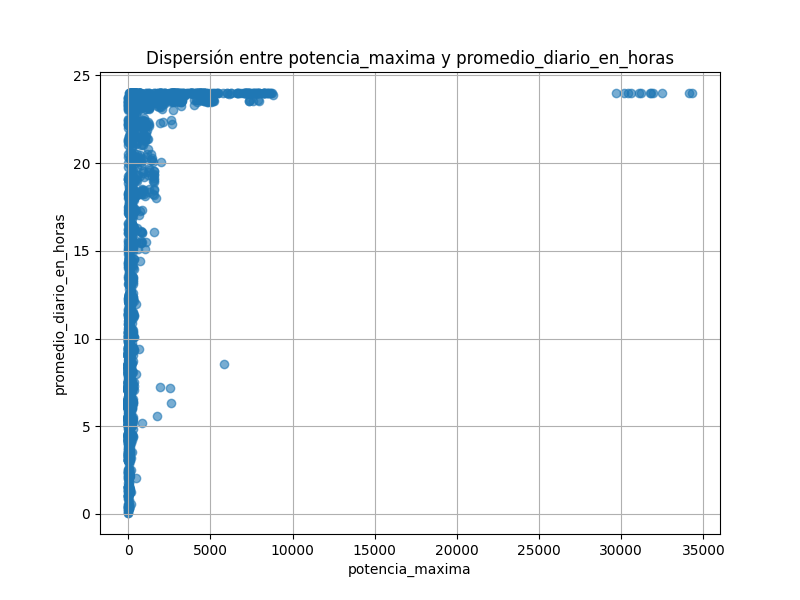
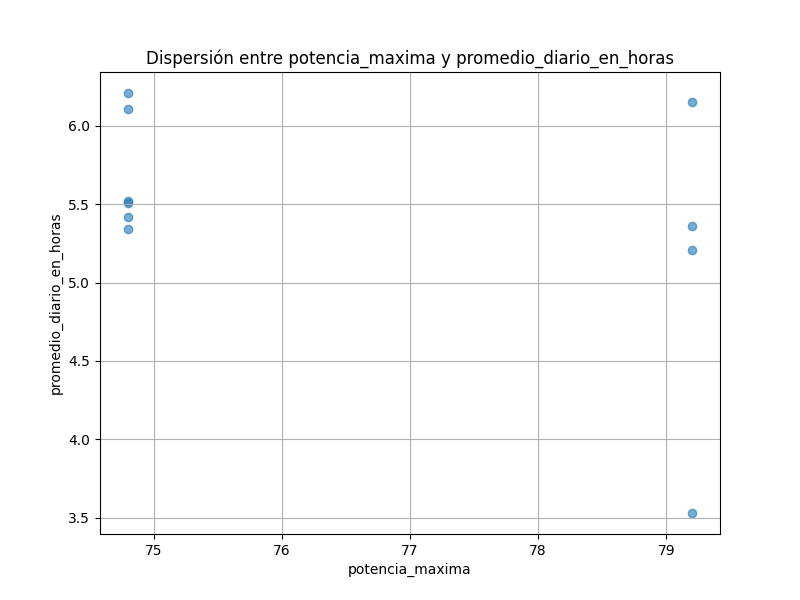
se agrego la opcion de filtrado por mid mubnnicipio o departamento

diff --git a/main.py b/main.py
@@ -1,24 +1,8 @@
-#----- Proyecto: Análisis de Datos de Zonas Horarias -----
-# Este script realiza un análisis estadístico y visualización de datos de estabilidad de servicio energético
-# en diferentes zonas horarias. Se enfoca en la columna 'PROMEDIO DIARIO EN HORAS'.
-# 1. Yaneth Berrio, 2. Santiago Quiroga, 3. Jose Luis Giraldo, 4. Sebastián Cortes, 5. Andrés Felipe Gutiérrez
-# main.py
-# main.py
-
 # main.py
 """
-Proyecto: Análisis de Datos de Zonas Horarias
-Autoría: Equipo (Yaneth Berrio, Santiago Quiroga, Jose Luis Giraldo, Sebastián Cortés, Andrés Felipe Gutiérrez)
-Descripción:
-    • Carga limpia y robusta del dataset Zonas_limpio.csv
-    • Estadísticas descriptivas clave
-    • Visualizaciones solicitadas (boxplot, histograma, pie, barras, mapa de calor, dispersión, regresión lineal)
-    • Manejo de errores: codificación, delimitador, encabezados faltantes
-"""
-# main.py
-"""
-Proyecto: Análisis de Datos de Zonas Horarias
-Versión: carga adaptable a separadores
+Proyecto: Análisis de Datos de Zonas Horarias – Filtro dinámico
+Permite filtrar por ID de municipio (M) o ID de departamento (D) y generar
+estadísticas + gráficas solo para el subconjunto elegido.
 """
 
 import pandas as pd
@@ -31,102 +15,67 @@ from graficas import (
     graficar_histograma, graficar_barras_categoria, graficar_matriz_correlacion,
     graficar_dispersion, graficar_regresion_lineal)
 
-# -----------------------------------------------------------------------------
-# 1. Carga adaptativa del CSV --------------------------------------------------
-# -----------------------------------------------------------------------------
-
 RUTA = "Zonas_limpio.csv"
 
-# intentos con diferentes configuraciones
-def cargar_csv(path: str) -> pd.DataFrame:
-    # 1) intento estándar ';' + latin1 + engine c
-    try:
-        df = pd.read_csv(path, sep=';', encoding='latin1')
-        if df.shape[1] > 1:
-            return df
-    except Exception:
-        pass
-    # 2) mismo pero engine python (tolerante)
-    try:
-        df = pd.read_csv(path, sep=';', encoding='latin1', engine='python')
-        if df.shape[1] > 1:
-            return df
-    except Exception:
-        pass
-    # 3) probar coma
-    try:
-        df = pd.read_csv(path, sep=',', encoding='latin1')
-        if df.shape[1] > 1:
-            return df
-    except Exception:
-        pass
-    # 4) engine python con coma
-    return pd.read_csv(path, sep=',', encoding='latin1', engine='python')
+# --------------------- Carga robusta -----------------------------------------
+with open(RUTA, "r", encoding="latin1") as f:
+    sep = ";" if ";" in f.readline() else ","
 
-try:
-    df = cargar_csv(RUTA)
-except FileNotFoundError:
-    raise SystemExit(f"❌ No se encontró el archivo {RUTA}.")
-
-# Normalizar encabezados y texto
+df = pd.read_csv(RUTA, sep=sep, encoding="latin1")
 df = normalizar_dataset(df)
+if "id_depatamento" in df.columns:
+    df = df.rename(columns={"id_depatamento": "id_departamento"})
 
-# Renombrar error tipográfico
-if 'id_depatamento' in df.columns:
-    df = df.rename(columns={'id_depatamento': 'id_departamento'})
+print("\n--- Caracterización de Datos ---")
+print("Filas, Columnas:", df.shape)
+print(df.isnull().sum())
 
-print("--- Caracterización de Datos ---")
-print("Tamaño total de datos (celdas):", df.size)
-print("Valores nulos por columna:", df.isnull().sum())
-
-if 'id_municipio' in df.columns:
-    print("Número de municipios únicos:", df['id_municipio'].nunique())
-else:
-    print("⚠  Columna 'id_municipio' ausente. Encabezados:", df.columns.tolist())
-
-# -----------------------------------------------------------------------------
-# 2. Estadísticas --------------------------------------------------------------
-# -----------------------------------------------------------------------------
-col_horas = 'promedio_diario_en_horas'
+# --------------------- Filtro dinámico --------------------------------------
+col_horas = "promedio_diario_en_horas"
 if col_horas not in df.columns:
-    raise KeyError(f"No existe '{col_horas}'. Encabezados actuales: {df.columns.tolist()}")
+    raise KeyError("Columna promedio_diario_en_horas ausente")
 
-filtro = (df[col_horas] > 0) & (df[col_horas] <= 24)
-if filtro.sum() == 0:
-    raise ValueError('No hay registros con horas 0<<=24')
+modo = input("¿Filtrar por municipio (M) o departamento (D)? [M/D]: ").strip().upper()
 
-df_filtrado = df[filtro]
-
-print(df.columns)
-
-df_filtro_mun = df[df['id_municipio'] == 27745]
-
-print(f"--- Estadísticas de '{col_horas} ' ---")
-mostrar_promedio(df_filtro_mun, col_horas)
-mostrar_promedio(df_filtrado, col_horas)
-mostrar_mediana(df_filtrado, col_horas)
-mostrar_varianza(df_filtrado, col_horas)
-mostrar_desviacion_estandar(df_filtrado, col_horas)
-mostrar_percentiles(df_filtrado, col_horas)
-posicion_percentil(df_filtrado, col_horas, valor=5)
-
-# -----------------------------------------------------------------------------
-# 3. Visualizaciones -----------------------------------------------------------
-# -----------------------------------------------------------------------------
-
-#graficar_distribucion_normal(df_filtrado, col_horas)
-#graficar_promedio(df_filtrado, col_horas)
-graficar_promedio(df_filtro_mun, col_horas)
-#graficar_boxplot(df_filtrado, col_horas)
-#graficar_histograma(df_filtrado, col_horas)
-#graficar_barras_categoria(df_filtrado, col_horas)
-
-num_cols = [c for c in ['energia_activa', 'energia_reactiva', 'potencia_maxima', col_horas] if c in df_filtrado.columns]
-if len(num_cols) >= 2:
-    graficar_matriz_correlacion(df_filtrado, num_cols)
-    if {'potencia_maxima', col_horas}.issubset(df_filtrado.columns):
-        graficar_dispersion(df_filtrado, 'potencia_maxima', col_horas)
-    if {col_horas, 'energia_activa'}.issubset(df_filtrado.columns):
-        graficar_regresion_lineal(df_filtrado, col_horas, 'energia_activa')
+if modo == "M":
+    id_mun = int(input("ID municipio: "))
+    df_sel = df[df["id_municipio"] == id_mun]
+    if df_sel.empty:
+        raise ValueError("Municipio no encontrado")
+    nombre_filtro = df_sel["municipio"].iloc[0].replace("_", " ").title()
 else:
-    print('⚠  No hay suficientes columnas numéricas para correlación/regresión.')
+    id_dep = int(input("ID departamento: "))
+    df_sel = df[df["id_departamento"] == id_dep]
+    if df_sel.empty:
+        raise ValueError("Departamento no encontrado")
+    nombre_filtro = df_sel["departamento"].iloc[0].replace("_", " ").title()
+
+# Filtrar horas válidas
+mask = (df_sel[col_horas] > 0) & (df_sel[col_horas] <= 24)
+df_fil = df_sel[mask]
+
+print(f"\n--- Estadísticas para {nombre_filtro} ---")
+mostrar_promedio(df_fil, col_horas)
+mostrar_mediana(df_fil, col_horas)
+mostrar_varianza(df_fil, col_horas)
+mostrar_desviacion_estandar(df_fil, col_horas)
+mostrar_percentiles(df_fil, col_horas)
+posicion_percentil(df_fil, col_horas, 5)
+
+# --------------------- Gráficas ---------------------------------------------
+
+graficar_distribucion_normal(df_fil, col_horas)
+graficar_promedio(df_fil, col_horas)
+graficar_boxplot(df_fil, col_horas)
+graficar_histograma(df_fil, col_horas)
+graficar_barras_categoria(df_fil, col_horas)
+
+vars_num = [v for v in ["energia_activa", "energia_reactiva", "potencia_maxima", col_horas] if v in df_fil.columns]
+if len(vars_num) >= 2:
+    graficar_matriz_correlacion(df_fil, vars_num)
+    if {"potencia_maxima", col_horas}.issubset(df_fil.columns):
+        graficar_dispersion(df_fil, "potencia_maxima", col_horas)
+    if {col_horas, "energia_activa"}.issubset(df_fil.columns):
+        graficar_regresion_lineal(df_fil, col_horas, "energia_activa")
+else:
+    print("⚠  Insuficientes variables numéricas para correlación/regresión")
